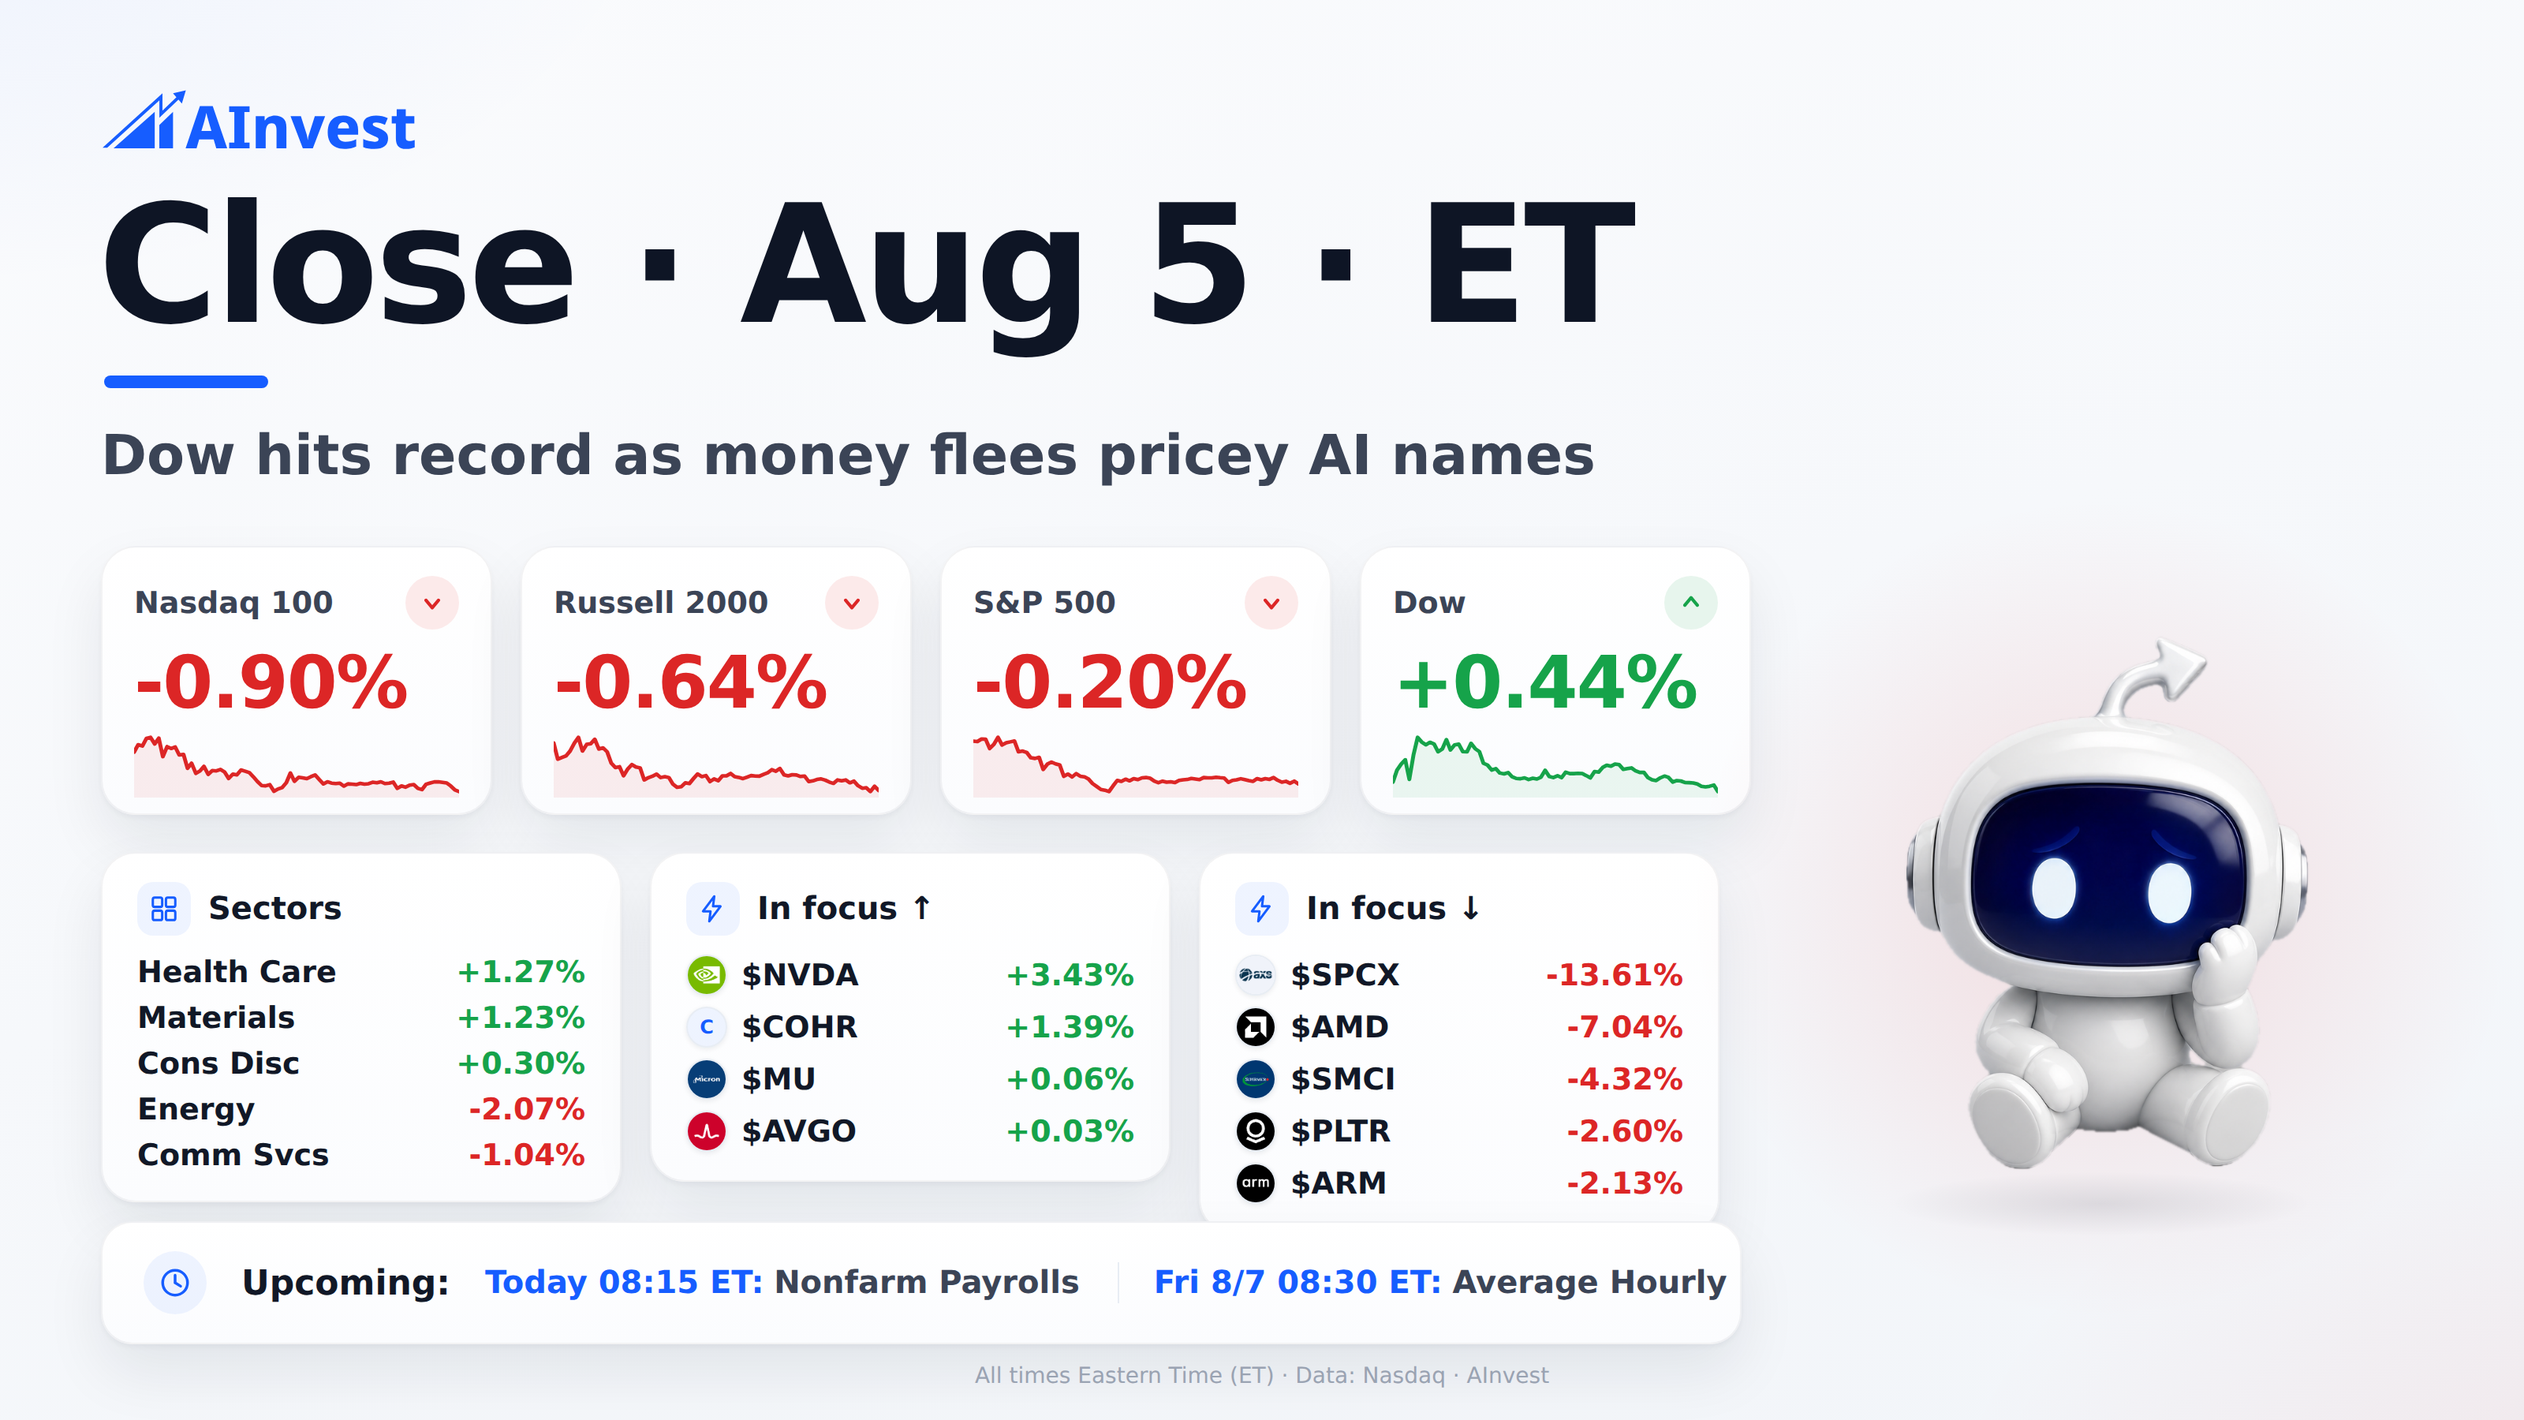
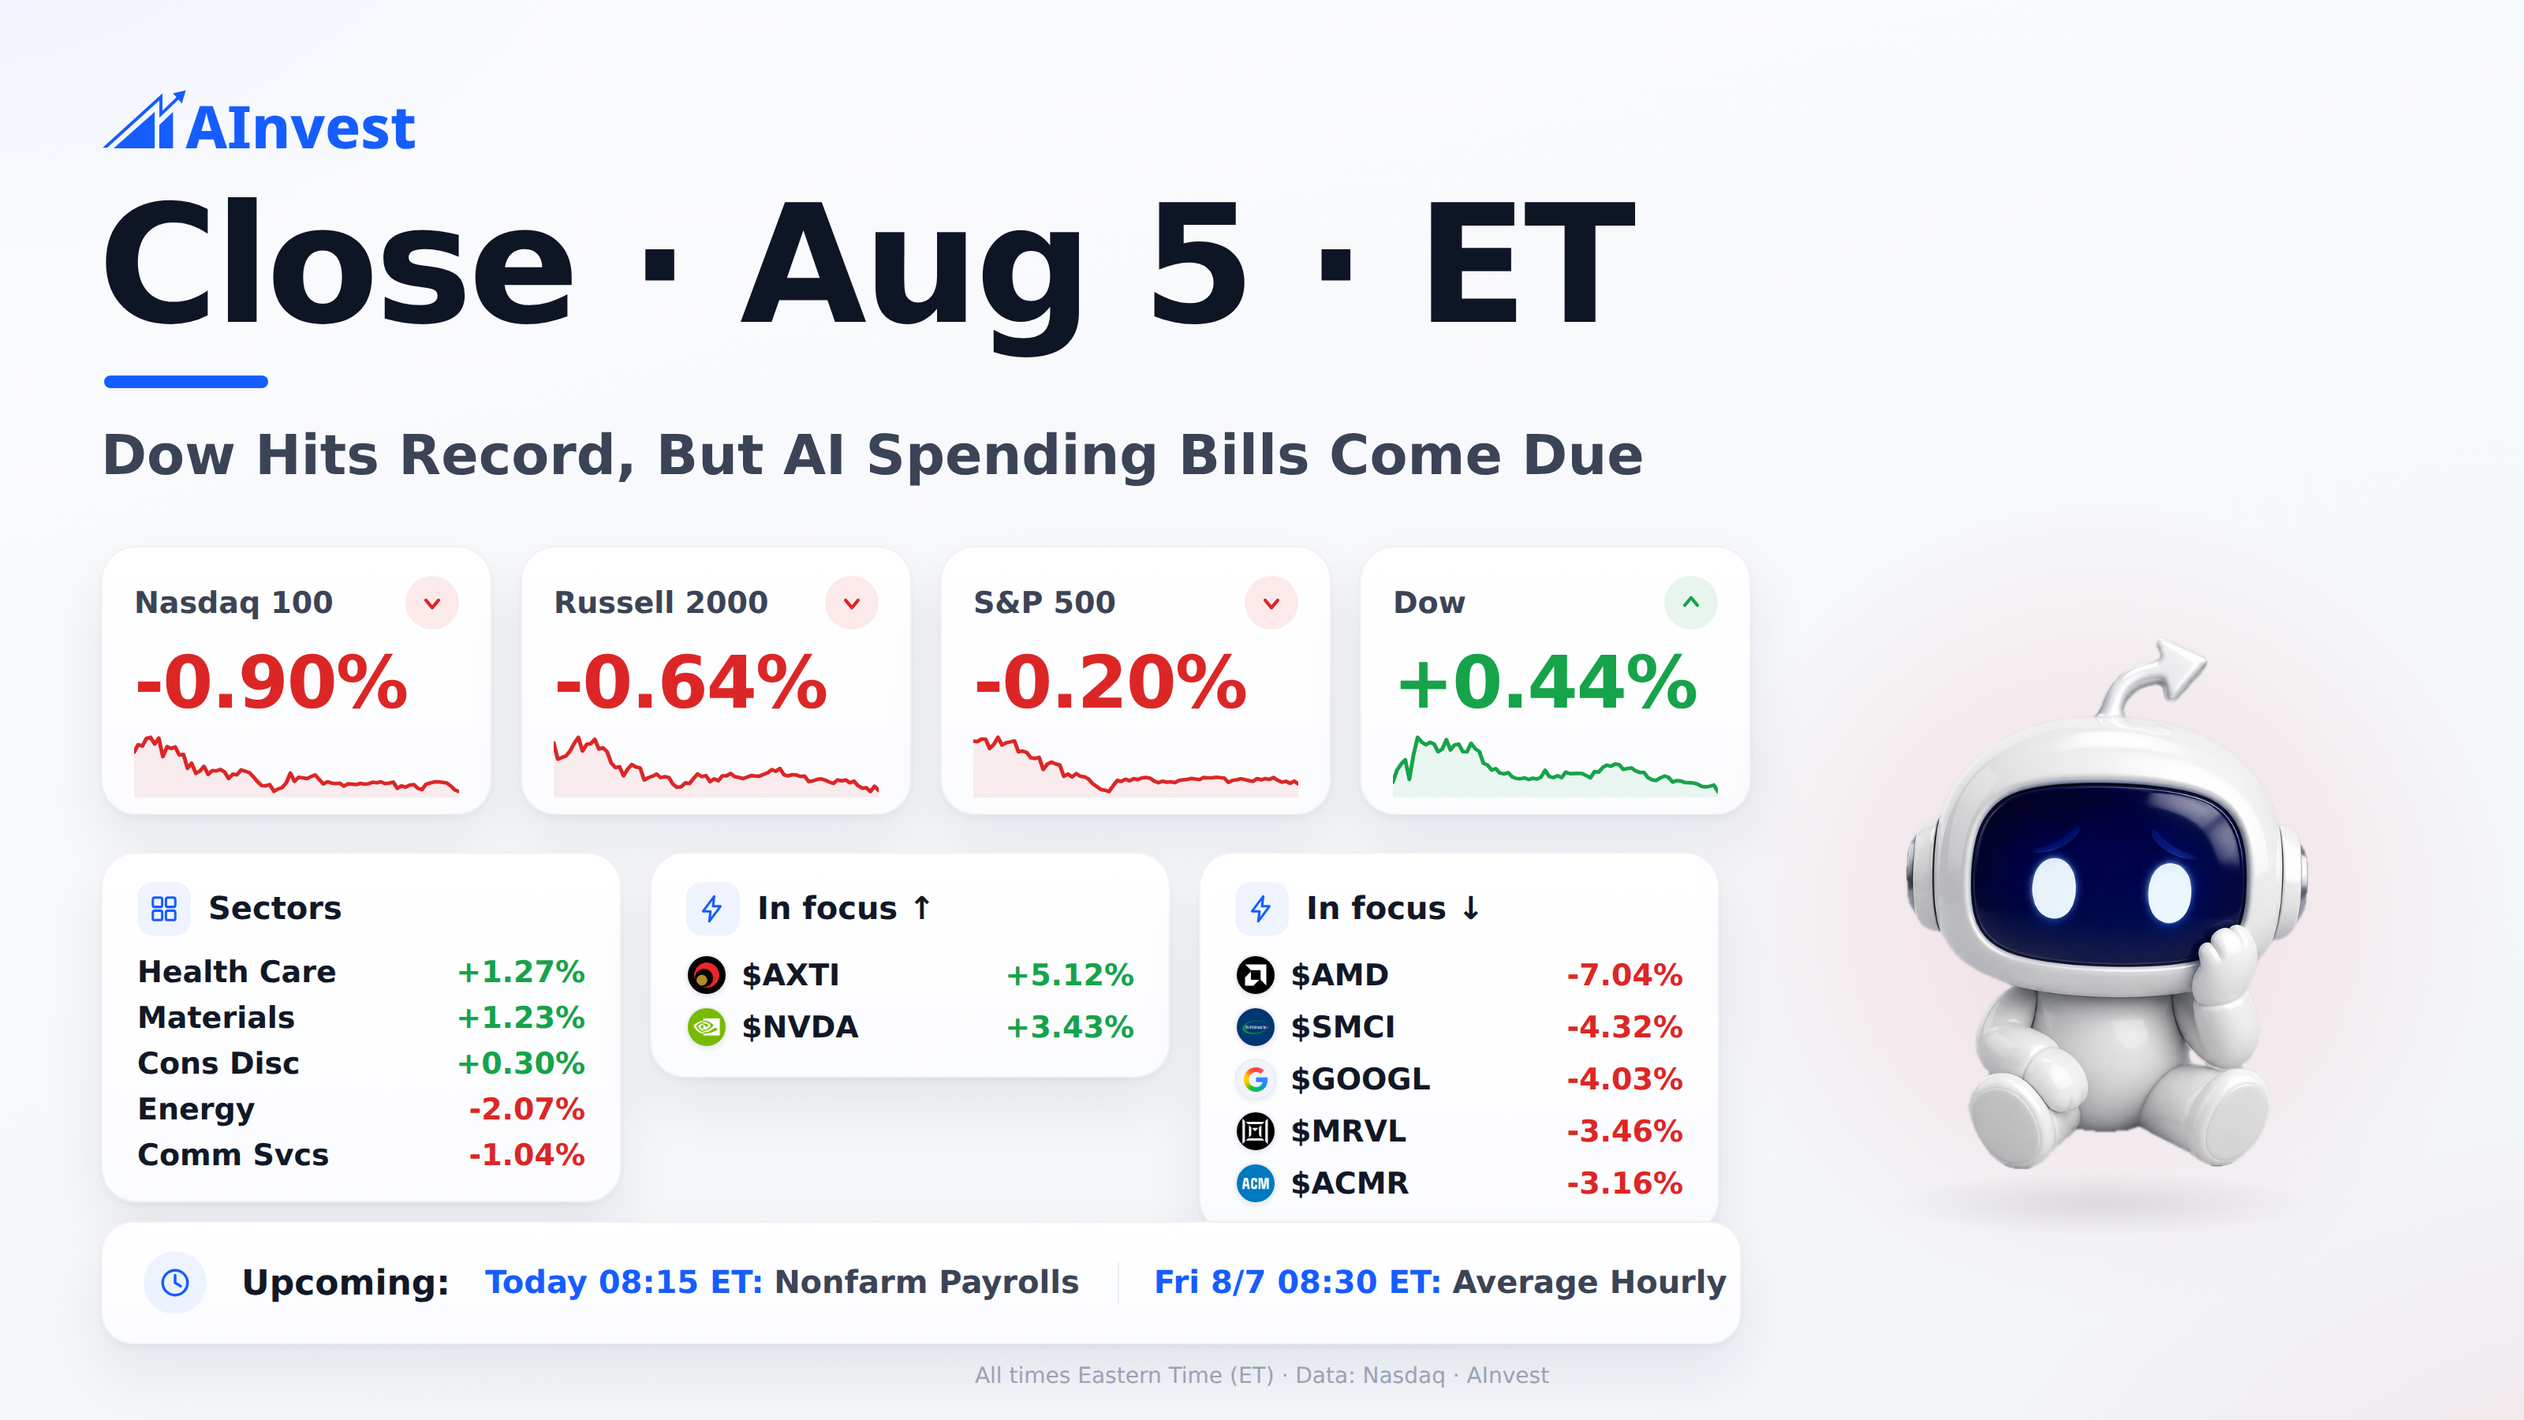
report: 收盘复盘 + 卡片 2026-08-05(线上 Claude Opus 4.8)

diff --git a/data/reports/close_20260805.md b/data/reports/close_20260805.md
@@ -1,48 +1,48 @@
 # 收盘复盘 · 08-05(美东收盘)
 
-_收盘数据 · 2026-08-05 22:18 ET · 我不是股神 · 非投资建议_
+_收盘数据 · 2026-08-05 22:32 ET · 我不是股神 · 非投资建议_
 
 ## 一句话定调
 
-今天美股是一场教科书级的"内部撕裂":道指再创新高、收涨 0.44%,标普只微跌 0.20%,但纳指 100 大跌 0.90%、罗素 2000 也跌 0.64%——**钱不是撤出市场,而是从高估值科技里往外挪**。表面上大盘"稳",实际上一根 K 线里藏着两个世界:资金在为 AI 的"性价比"和"资本开支黑洞"重新定价,同时抱着道指里的旧经济价值票取暖。今天的主角不是涨得最猛的谁,而是 AMD 和 SpaceX 这两根阴线背后传递的信号。
+道指又刷了历史新高(+0.44%),但这是一根"分裂"的 K 线——大票越是往上冲,水面下越是被 AI 资本开支的账单和一堆财报地雷咬着。标普微跌 0.20%、纳指 100 跌 0.90%、罗素 2000 跌 0.64%,涨的是防御和权重,杀的是成长和杠杆。今天不是普涨,是资金从"贵的成长"里抽血,搬去道指那种能扛的老钱,顺便躲开财报雷区。
 
 ## 今天的主线
 
-**主线一:AI 叙事的第一次"钱袋子审判"。** 这是今天最该看懂的一条。AMD 财报后暴跌 7.04%,收 482.05,新闻里那句"This was not an exceptional result"点破了要害——不是数字差,是**在这个估值上"符合预期"就等于利空**。Lisa Su 还得出面淡化马斯克对英伟达的承诺,说明市场开始怀疑 AMD 在 AI 加速卡上的份额故事。对照看,英伟达逆势涨 3.43% 到 219.22,资金没有离开 AI,而是在 AI 内部做"龙头 vs 挑战者"的切割:钱从二线 AI 芯片(AMD -7%、ARM -2.13%、SMCI -4.32%)集中回英伟达一家。这不是看空 AI,是**AI 交易从"雨露均沾"进入"只认龙头"的阶段**——这一点很多人今天还当成普跌在看,其实是分化。
+**主线一:AI 资本开支的反噬,今天开始收账。** 这是今天最值得记的一条。SPCX(SpaceX)收跌 13.61%,CNBC 明说是"AI 支出激增让投资者不安 + 巨额解禁临近"——注意这个措辞:市场不是在质疑 SpaceX 本身,而是在重新定价"为 AI 无限烧钱"这件事。同一逻辑砸到 AMD:盘前刚出的财报被 Yahoo 直接定性"这不是一份出彩的成绩单",股价收跌 7.04%,Lisa Su 还得公开淡化马斯克对英伟达的采购承诺。反常的是英伟达自己逆势收涨 3.43%——Barron's 那句"英伟达对芯片同行仍是重折价"点破了资金的选择:同样是 AI,钱在往"确定性最高、护城河最宽"的那一个集中,把 AMD、SPCX 这些"故事更贵、兑现更远"的往外扔。这是典型的题材内部分化,不是题材崩了。
 
-**主线二:SpaceX 与"资本开支恐慌"。** SPCX 收跌 13.61% 到 108.27,是今天大票里最刺眼的阴线。新闻给的因果很清楚:一是市场担忧 AI 支出狂潮(massive AI spending surge)侵蚀现金流,二是**巨量股份解锁临近**(share unlock looms)——解锁是实打实的供给冲击,和基本面无关,但足以砸盘。有意思的是 Cramer 同一天喊"给孩子买 SpaceX 当传家宝",这种"长期无比看好 + 短期被解锁砸穿"的组合,恰恰是高估值明星股的典型剧本:**故事越大,越经不起筹码松动**。今天卖 SPCX 的人赌的不是 SpaceX 不行,是短期筹码扛不住。
+**主线二:油价下跌 + 中东缓和,把钱推回道指的老经济。** 多条 Reuters/CNBC 新闻指向同一件事——特朗普称霍尔木兹海峡协议"接近达成"、伊朗-阿曼谈判推进,油价滑落、金价摸到七周高位。风险溢价一降,资金的第一反应不是追高成长,而是回补道指里那些被低估的周期与防御——这解释了为什么道指能独自刷新高而纳指在跌。黄金冲高则是另一面:有人一边买风险缓和,一边买避险对冲,说明这波乐观情绪本身是有戒心的,不是无脑 risk-on。
 
-**主线三:道指的"避险式新高"由地缘退烧驱动。** 道指创 54,000 新高、连涨第五天,新闻把功劳记给中东降温——特朗普喊停对伊朗打击、霍尔木兹海峡有重启希望,油价回落。**逻辑链是:油价跌 → 通胀预期松 → 债券收益率下行 → 旧经济、防御、周期票受益**。所以今天你看到的是"道指价值票扛旗、纳指成长票挨打"的经典跷跷板。但注意一个市场可能误读的点:金价同时摸到七周高位,说明避险情绪并没有真正消退,**这波不是纯粹的 risk-on,更像"押地缘缓和 + 留一手黄金"的对冲式做多**,这种上涨的持续性要打个问号。
+**主线三:财报雷区,今天是"个股绞肉机"。** 跌幅榜清一色是财报/业绩反应:PODD(Insulet)-20.12%、DVA(DaVita)-17.24%、RRX(Regal Rexnord)-16.72%、VSH(Vishay)-14.59%。这些跟大盘没关系,是各自基本面被市场当场证伪。反过来涨幅榜 MTRN(Materion)+30.81% 也是财报驱动的孤例。这根 K 线的水面下是"财报定生死",指数的平静掩盖了个股的血雨——罗素 2000 跌 0.64% 正是这种小盘个股风险的集中体现。
 
 ## 热门追踪
 
-- **SPCX**:收跌 13.61%,今天最惨的明星股,AI 支出担忧 + 解锁临近双杀,纯筹码面。
-- **NVDA**:逆势涨 3.43%,AI 分化里唯一的赢家,资金向龙头集中。
-- **AMD**:暴跌 7.04%,财报"仅符合预期"在高估值上就是利空,二线 AI 芯片被抛。
-- **ARM**:跌 2.13%,随 AMD 情绪回落,但新闻提到它一周前刚有近一年最佳单日,属高位震荡。
-- **SMCI**:跌 4.32%,AI 服务器链跟随 AMD 走弱。
-- **MU**:几乎平收 +0.06%,存储在今天的 AI 抛售里显得抗跌,资金没往这砍。
-- **AVGO**:平收 +0.03%,消息面被高盛移出"信仰名单"施压,但订单簿故事撑住没崩。
-- **PLTR**:跌 2.60%,高贝塔软件跟随纳指回吐。
-- **TSLA**:跌 1.77%,随成长股回落,无独立催化。
-- **COHR**:逆势涨 1.39%,光通信在今天算稳,没被 AI 恐慌波及。
+- **SPCX -13.61%**:今天的主角,AI 烧钱担忧叠加解禁压力,是"重新定价成长"这条主线的震中。
+- **NVDA +3.43%**:逆势领涨,资金在 AI 内部向确定性最强的龙头集中,越乱越买它。
+- **AMD -7.04%**:财报后被杀,市场嫌"不够出彩",与英伟达形成鲜明的强弱切割。
+- **MU +0.06%**:基本走平,在半导体一片杀跌里守住,相对抗跌已算亮点。
+- **AVGO +0.03%**:几乎不动,消息面有被高盛从"强力买入名单"剔除的干扰,资金观望。
+- **ARM -2.13%**:随成长回落小跌,但消息面偏暖(有机构新建仓),属温和消化。
+- **SMCI -4.32%**:AI 硬件链的高 beta,今天跟着 AMD、SPCX 的情绪一起被抽血。
+- **PLTR -2.60%**:高估值成长的代表,风格切换下自然回吐。
+- **TSLA -1.77%**:随纳指走弱,无独立催化,跟跌为主。
+- **COHR +1.39%**:光通信逆势收涨,是 AI 硬件里少数没被情绪波及、反而有资金承接的。
 
 ## 消息面
 
-**第一,地缘退烧是今天所有多头的地基。** 特朗普叫停对伊朗打击、霍尔木兹海峡传出重启希望,油价回落——这是道指新高、"落 oil→涨股"叙事的直接来源。但同一批 Reuters 报道里还有"伊朗威胁若美国再动手就打海湾国家"、拟议协议要给伊朗掌控入境航运,说明**这是脆弱的缓和,不是收官**,任何反转都会先砸道指今天涨得最欢的那批票。
+1. **中东风险溢价快速回落**是今天最大的宏观驱动:特朗普称霍尔木兹协议接近、伊朗-阿曼谈判推进,油价下滑——这是道指刷新高、周期股回暖的直接推手。但同一批新闻里 Reuters 也有"伊朗威胁若美再打击就打海湾国家"的独家,说明缓和是脆弱的,金价摸七周高位正是市场留的后手。
 
-**第二,AMD 财报重定义了"AI 财报的及格线"。** 市场对 AI 权重股的容忍度正在收紧:一份不差的财报,因为"不够惊艳"就被砸 7%。这条会外溢——后面每一家 AI 链公司出财报,门槛都被 AMD 抬高了。
+2. **AMD 财报成为成长股情绪的转折点**:被媒体直接定性"不是出彩的结果",股价 -7%,Lisa Su 还要淡化马斯克对英伟达的采购表态——这条消息把"AI 芯片军备竞赛谁真受益"的怀疑摆上了台面,直接带崩了 AI 硬件链的情绪。
 
-**第三,SpaceX 的解锁 + AI 烧钱叙事。** SPCX 被点名为当日大跌主角,CNBC 明确写了"share unlock looms"。**解锁是可预期的机械性抛压**,和公司好坏无关,这类事件砸出来的坑往往和情绪叠加放大。
+3. **SpaceX 的下跌被明确归因于"AI 支出 + 解禁"**:这不是孤立事件,而是市场对"为 AI 无限烧钱"整体估值的一次警告,值得所有 AI 概念持有者警惕。Cramer 让"给孩子买 SpaceX、这是跨代投资"的喊话,恰恰反衬出短期资金的犹豫。
 
-**第四,Alphabet 的 AI 人才流失。** 新闻提到 Alphabet 因"AI brain drain"承压。这和 AMD 是一条暗线:市场开始给 AI 里"守不住护城河"的玩家打折——不管是丢份额还是丢人才。
+4. **裁员潮露头**:Etsy 裁员 12%、消息面还有多家重组信号。这类"降本"新闻在财报季密集出现,提示市场对消费与成长类公司的盈利质量越来越挑剔——这也是今天小盘和成长被区别对待的底色。
 
 ## 盘后 & 明日看点
 
-今天盘后重头戏扎堆:**Airbnb(ABNB)、DoorDash(DASH)、Duolingo(DUOL)、Shopify(SHOP,盘前)、Uber(UBER,盘前)** 一串消费与平台股出成绩,市场赌的是"消费韧性还在不在";**Datadog(DDOG)、Cloudflare(NET)、Atlassian(TEAM)、Twilio(TWLO)** 这批软件云股,则直接检验"AI 变现"能不能兑现到 SaaS 的账上——在 AMD 已经把 AI 及格线抬高的背景下,这几家的指引比 EPS 更关键。
+今天盘后是超重量级财报夜:**AppLovin(APP)、DoorDash(DASH)、Duolingo(DUOL)、MercadoLibre(MELI)、Expedia(EXPE)、Shopify(SHOP)、Uber(UBER)、Disney(DIS)、Eli Lilly(LLY)、McKesson(MCK)** 全在今天(8/5)出。市场在赌两件事:一是高估值成长(APP、DUOL、SHOP)能不能用业绩顶住今天这波风格杀跌;二是 LLY 这种权重能不能替道指续命。这些财报的反应,基本决定明天风格是继续"杀成长"还是修复。
 
-再往前看,**迪士尼(DIS)、Eli Lilly(LLY,盘前)** 是明天两块非科技的压舱石:LLY 押的是减肥药需求曲线,DIS 押的是流媒体与乐园的现金流。市场明天大概率延续今天的"分化"逻辑——**谁能证明增长是真的、指引敢往上抬,谁就能穿过这轮对高估值的审判**。
+明天(8/6)盘后另一批重头:**Airbnb(ABNB)、Datadog(DDOG)、Cloudflare(NET)、Atlassian(TEAM)、The Trade Desk(TTD)、ConocoPhillips(COP)、Constellation Energy(CEG)**。软件 SaaS(DDOG/NET/TEAM/TTD)扎堆,市场在赌"AI 到底给这些软件公司带来了收入,还是只带来了成本"——这正是今天 AMD/SPCX 那条主线的延续拷问。
 
 ## 一句话
 
-今天记住一件事:**大盘没跌,但 AI 交易的规则变了——从"大家一起涨"切换成"只有龙头和能自证的人配涨",AMD 和 SpaceX 是第一批被这条新规则砸中的名字。**
+今天道指的新高是"障眼法",真正的信号在水面下:市场开始给"AI 无限烧钱"这件事标价了,钱在往最确定的龙头(英伟达)集中,把兑现更远、估值更贵的(AMD、SPCX)往外扔——这不是 AI 见顶,是 AI 交易从"讲故事"进入"对账"的第一天。
